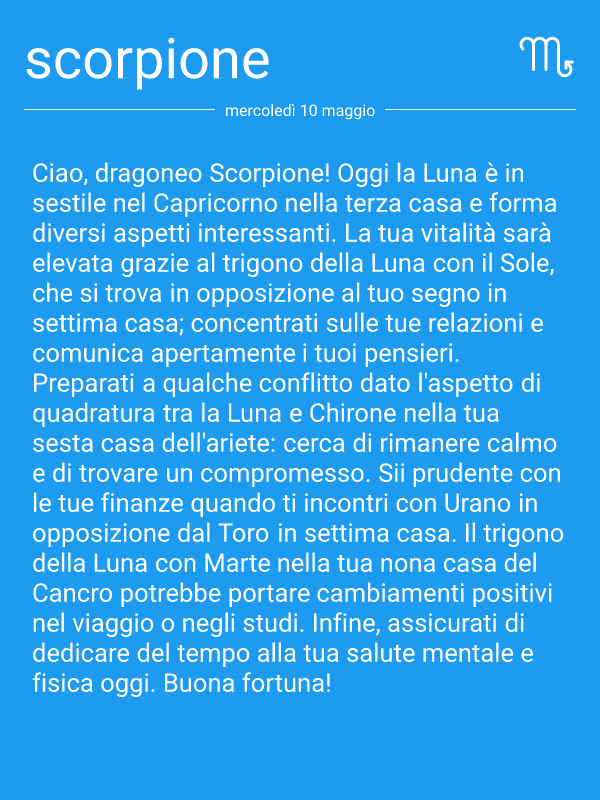
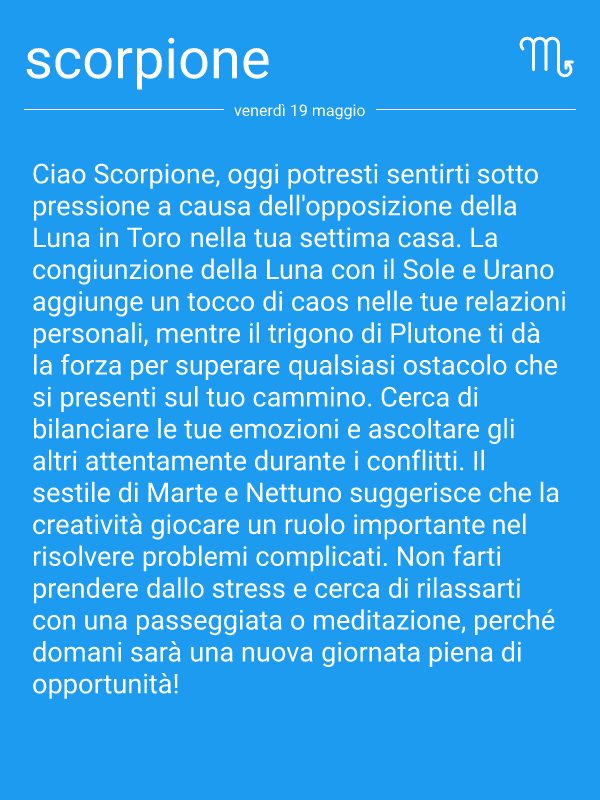
modified schedule

Changed region(s): [[0.03, 0.1875, 0.93, 0.875], [0.36, 0.125, 0.63, 0.1562]]

diff --git a/index.js b/index.js
@@ -15,7 +15,7 @@ dotenv.config();
 async function main() {
   try {
     const day = 2
-    // await generateAllImages(-7)
+    await generateAllImages(1)
 // await tweetAllImages(0)
 //     const day = 3 // 0 === today, 1 === tomorrow , -1 yesterday
 //     const {dateColons, dateDashes} = getFormattedDate(0)
@@ -29,7 +29,7 @@ async function main() {
 // }
 // console.log('SAVED ALL!!!')
 // await tweetTest(0)
-   await  cronGetHoroscopesAndSaveToDB(1)
+  //  await  cronGetHoroscopesAndSaveToDB(1)
   //   //generate daily horoscope
   //   // const sign = 'toro'
   //   const { dateColons, dateDashes } = getFormattedDate(3);

diff --git a/cron.js b/cron.js
@@ -15,7 +15,7 @@ cron.schedule('30 7 * * *', ()=> tweetAllImages(0),  {
     scheduled: true,
     timezone: "Europe/Rome"
   })
-cron.schedule('40 19 * * *', ()=> tweetAllImages(0),  {
+cron.schedule('40 19 * * *', ()=> tweetAllImages(1),  {
     scheduled: true,
     timezone: "Europe/Rome"
   })
